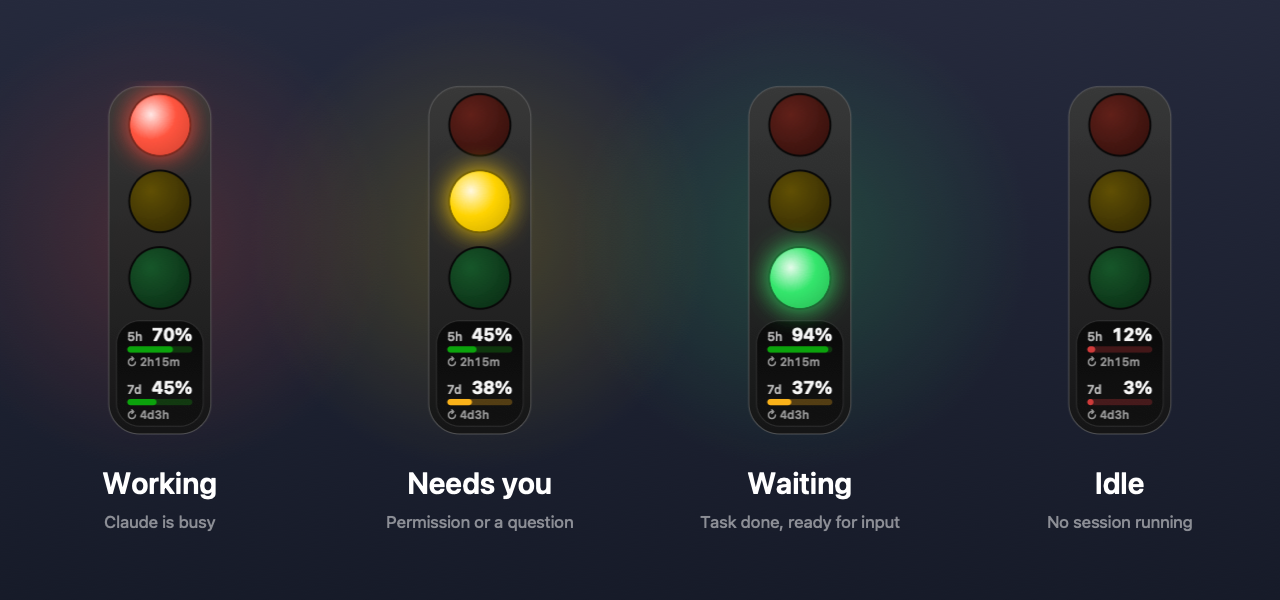
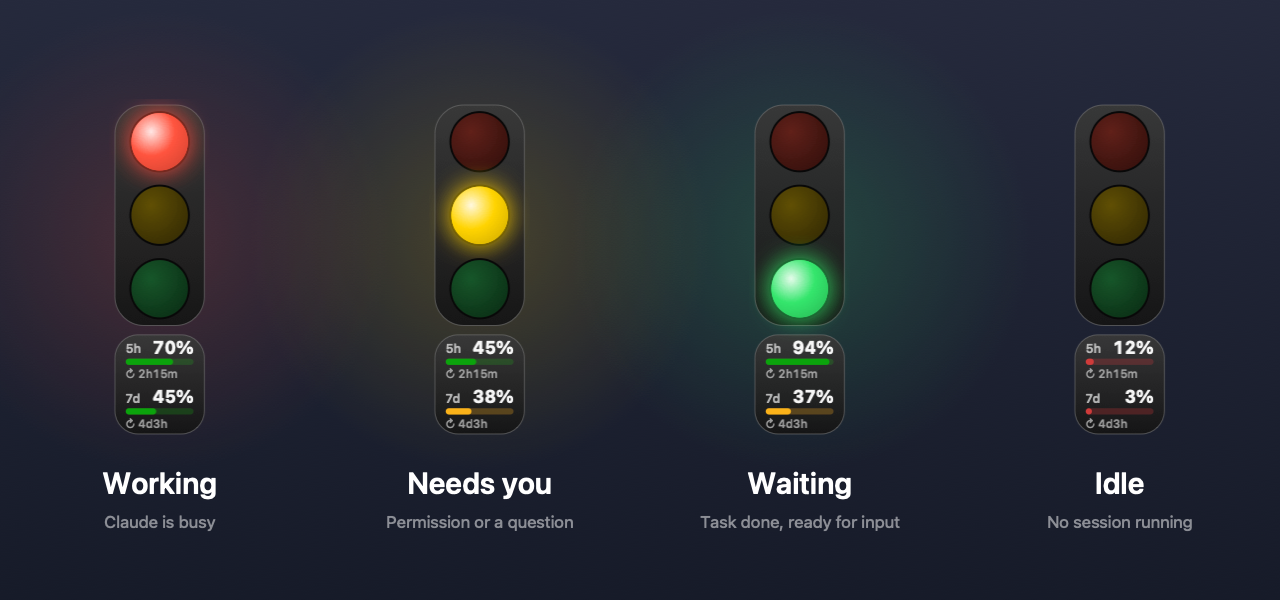
Split gauge into its own card with the same width as the light; restore symmetric housing

diff --git a/Sources/main.swift b/Sources/main.swift
@@ -360,12 +360,12 @@ func quotaStatusColor(_ remaining: Double) -> NSColor {
 
 final class TrafficLightView: NSView {
     /// Höhe des Kontingent-Bereichs unter der Ampel (bei Skalierung 1.0)
-    static let gaugeAreaHeight: CGFloat = 76
+    static let gaugeAreaHeight: CGFloat = 70
     /// Breite des Fensters mit / ohne Kontingent-Sockel (bei Skalierung 1.0)
     static let panelWidth: CGFloat = 58
-    static let panelWidthWithQuota: CGFloat = 74
+    static let panelWidthWithQuota: CGFloat = 66
     static let panelHeight: CGFloat = 150
-    static let panelHeightWithQuota: CGFloat = 232
+    static let panelHeightWithQuota: CGFloat = 220
 
     var state: LightState = .off { didSet { needsDisplay = true } }
     var quota: QuotaSnapshot? { didSet { needsDisplay = true } }
@@ -389,13 +389,13 @@ final class TrafficLightView: NSView {
     /// Zeichnet die Kapsel mit den zwei Restanzeigen (5h / 7d).
     private func drawGauge(in rect: NSRect, wellRadius: CGFloat) {
         let s = uiScale
-        // Eingelassenes Display im Gehäuse: dunkler als der Rahmen, feine Innenkante
-        let well = NSBezierPath(roundedRect: rect, xRadius: wellRadius, yRadius: wellRadius)
-        NSGradient(starting: NSColor(white: 0.02, alpha: 0.80), ending: NSColor(white: 0.07, alpha: 0.80))?
-            .draw(in: well, angle: -90)
-        NSColor(white: 1, alpha: 0.07).setStroke()
-        well.lineWidth = 1
-        well.stroke()
+        // Eigene Karte, gleiches Material und gleiche Breite wie das Ampelgehäuse
+        let card = NSBezierPath(roundedRect: rect, xRadius: wellRadius, yRadius: wellRadius)
+        NSGradient(starting: NSColor(white: 0.22, alpha: 0.96), ending: NSColor(white: 0.08, alpha: 0.96))?
+            .draw(in: card, angle: -90)
+        NSColor(white: 0.45, alpha: 0.6).setStroke()
+        card.lineWidth = 1
+        card.stroke()
 
         let dim: CGFloat = (quota?.isStale ?? false) ? 0.5 : 1.0
         let rows: [(String, QuotaWindow?)] = [("5h", quota?.fiveHour), ("7d", quota?.sevenDay)]
@@ -446,13 +446,11 @@ final class TrafficLightView: NSView {
 
     override func draw(_ dirtyRect: NSRect) {
         let pad: CGFloat = 6   // Platz für den Leuchtschein
-        let body = bounds.insetBy(dx: pad, dy: pad)
         let section = showQuota ? Self.gaugeAreaHeight * uiScale : 0
-        // Lampenbereich = Gehäuse ohne den Display-Sockel
-        let lampsBody = NSRect(x: body.minX, y: body.minY + section, width: body.width, height: body.height - section)
-        let radius = body.width * (showQuota ? 0.30 : 0.32)
+        // Ampelgehäuse: symmetrisch, oben; die Karte darunter hat dieselbe Breite
+        let body = NSRect(x: pad, y: section + pad, width: bounds.width - pad * 2, height: bounds.height - section - pad * 2)
+        let radius = body.width * 0.32
 
-        // Gehäuse (ein Stück für Lampen und Display)
         let housing = NSBezierPath(roundedRect: body, xRadius: radius, yRadius: radius)
         NSGradient(starting: NSColor(white: 0.22, alpha: 0.96), ending: NSColor(white: 0.08, alpha: 0.96))?
             .draw(in: housing, angle: -90)
@@ -461,18 +459,17 @@ final class TrafficLightView: NSView {
         housing.stroke()
 
         if showQuota {
-            let m = 5 * uiScale
-            let well = NSRect(x: body.minX + m, y: body.minY + m, width: body.width - 2 * m, height: section - m - 3 * uiScale)
-            drawGauge(in: well, wellRadius: radius - m)
+            let card = NSRect(x: body.minX, y: pad, width: body.width, height: section - 6 * uiScale)
+            drawGauge(in: card, wellRadius: 15 * uiScale)
         }
 
         // Drei Lampen von oben nach unten: rot, gelb, grün
         let lamps: [LightState] = [.red, .yellow, .green]
-        let slot = lampsBody.height / 3
-        let d = min(lampsBody.width * 0.68, slot * 0.78)
+        let slot = body.height / 3
+        let d = min(body.width * 0.68, slot * 0.78)
         for (i, lamp) in lamps.enumerated() {
-            let cy = lampsBody.maxY - slot * (CGFloat(i) + 0.5)
-            let rect = NSRect(x: lampsBody.midX - d / 2, y: cy - d / 2, width: d, height: d)
+            let cy = body.maxY - slot * (CGFloat(i) + 0.5)
+            let rect = NSRect(x: body.midX - d / 2, y: cy - d / 2, width: d, height: d)
             let circle = NSBezierPath(ovalIn: rect)
             let c = color(for: lamp)
             let lit = lamp == state && (state != .yellow || blinkOn)
